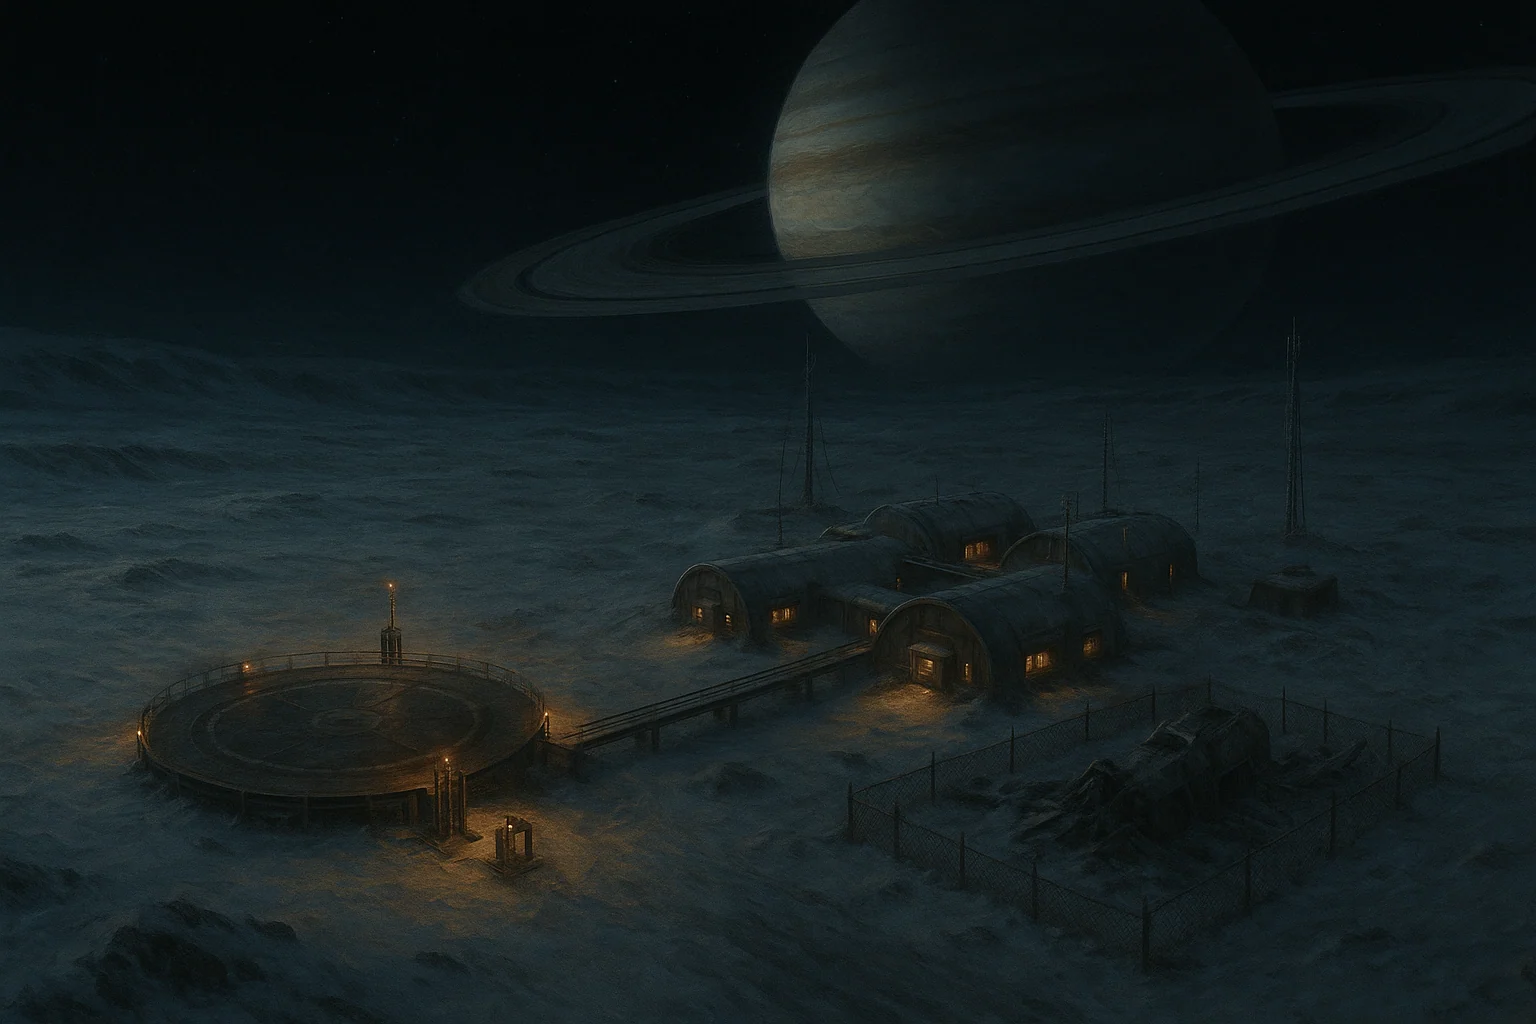
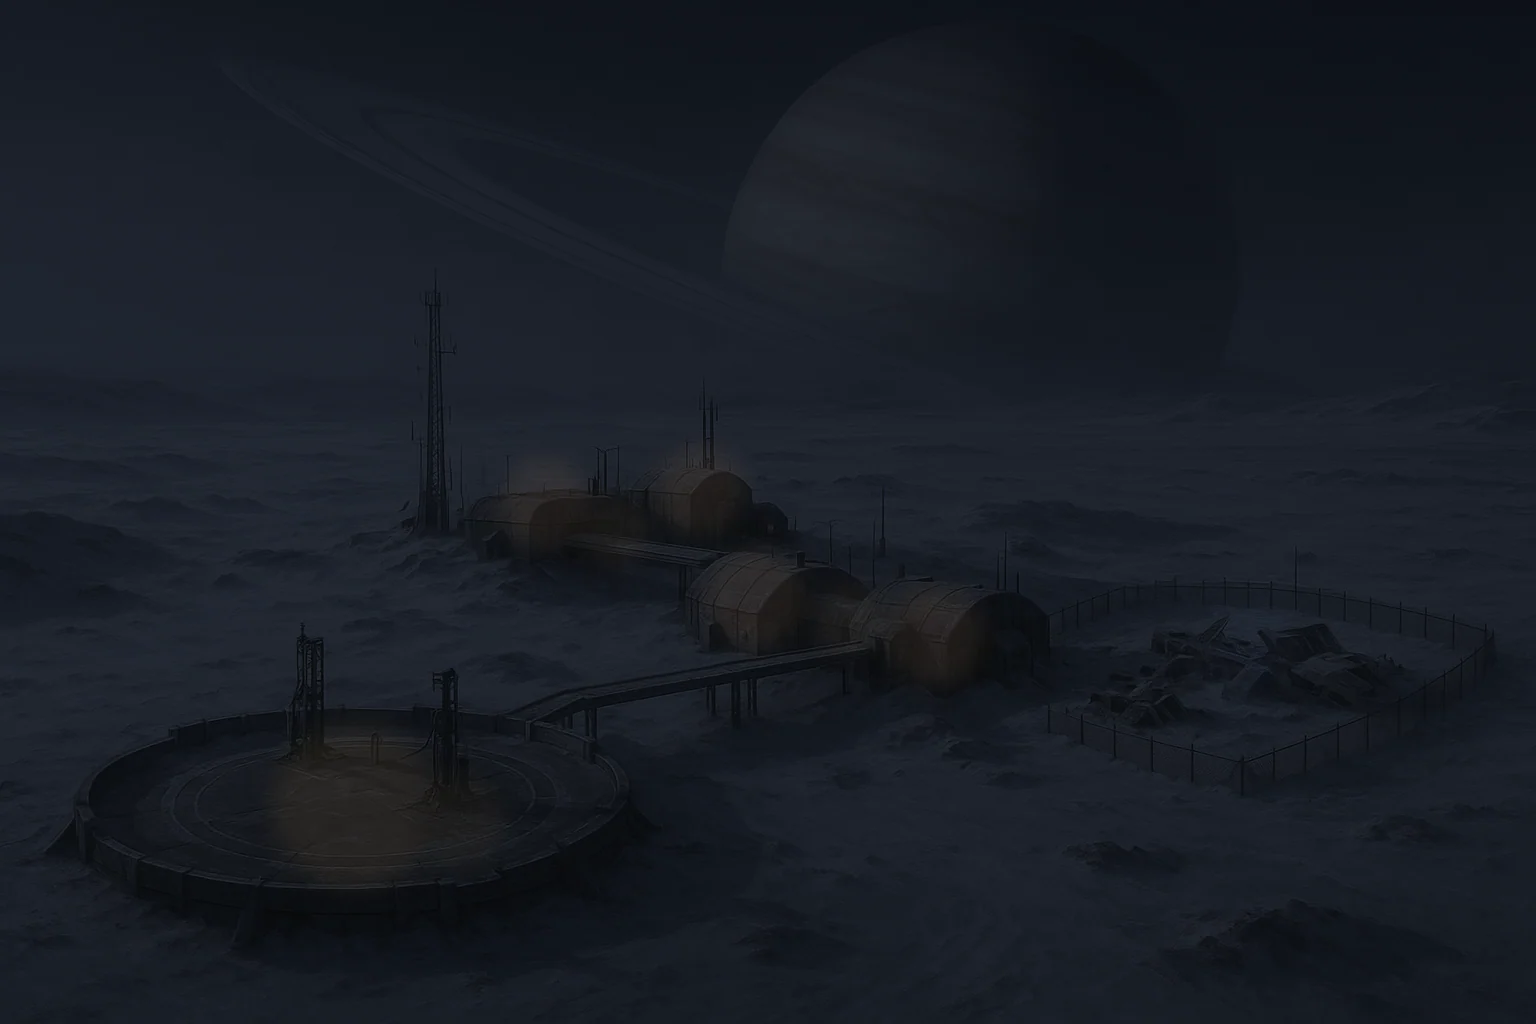
v0.1.2 — day/night graded from one image, side-panel layout fixed for good
- Dawn, dusk and night are now graded from the single daylight vista by
  tools/relight.py, with authored lamp points painted back in. Generating night
  separately gave a different building layout, so hotspots drifted after dark.
- Location rows are div role=button and restate their own box, so Foundry global
  button rules can no longer push tag chips onto the card above.

diff --git a/scripts/settle-render.js b/scripts/settle-render.js
@@ -501,13 +501,15 @@
 .sgset *{box-sizing:border-box;}
 /* Foundry's own button and typography rules leak in, and inline spans inside a flex button
    collapse on top of one another. Everything below is a defence against that. */
-.sgset button{font-family:inherit;color:inherit;cursor:pointer;background:none;border:none;
-  margin:0;line-height:1.35;text-align:left;white-space:normal;text-shadow:none;
-  box-shadow:none;border-radius:0;height:auto;min-height:0;width:auto;}
+.sgset button,.sgset [role="button"]{font-family:inherit;color:inherit;cursor:pointer;
+  background:none;border:none;margin:0;line-height:1.35;text-align:left;white-space:normal;
+  text-shadow:none;box-shadow:none;border-radius:0;
+  height:auto;min-height:0;max-height:none;width:auto;}
 .sgset button:hover,.sgset button:focus{box-shadow:none;outline:none;}
-.sgset .sgset-loc .body,.sgset .sgset-loc .blurb,
-.sgset .sgset-loc .sgset-tags,.sgset .sgset-loc .sgset-who{display:block;}
-.sgset .sgset-loc .glyph{display:flex;}
+.sgset .sgset-loc .body{display:block;flex:1 1 auto;min-width:0;}
+.sgset .sgset-loc .blurb{display:block;}
+.sgset .sgset-loc .sgset-tags,.sgset .sgset-loc .sgset-who{display:flex;flex-wrap:wrap;}
+.sgset .sgset-loc .glyph{display:flex;flex:0 0 30px;}
 
 /* ---- stage (the settlement artwork) ---- */
 .sgset-stage{position:relative;flex:1 1 auto;overflow:hidden;display:flex;
@@ -586,7 +588,11 @@
 .sgset-list{flex:1 1 auto;overflow-y:auto;padding:8px;display:flex;flex-direction:column;gap:7px;}
 .sgset-loc{border:1px solid var(--edge);border-radius:10px;background:rgba(9,24,36,.72);
   padding:10px 11px;display:flex;gap:11px;align-items:flex-start;text-align:left;width:100%;
+  cursor:pointer;overflow:hidden;font:inherit;color:inherit;
+  height:auto;min-height:0;max-height:none;line-height:1.4;white-space:normal;
   transition:border-color .15s,background .15s,transform .12s;}
+.sgset .sgset-loc>*{white-space:normal;}
+.sgset-loc:focus-visible{outline:1px solid var(--teal);outline-offset:2px;}
 .sgset-loc:hover{border-color:var(--edge2);background:rgba(14,38,54,.82);transform:translateX(-2px);}
 .sgset-loc.is-blocked{cursor:default;opacity:.62;}
 .sgset-loc.is-blocked:hover{border-color:var(--edge);background:rgba(9,24,36,.72);transform:none;}
@@ -865,15 +871,16 @@
     if (l.locked) tags.push(`<span class="sgset-tag locked">${esc(reason)}</span>`);
     if (l.gmOnly) tags.push(`<span class="sgset-tag gm">Hidden from players</span>`);
     return `
-<button class="sgset-loc ${l.enterable ? "" : "is-blocked"}" data-act="enter" data-loc="${esc(l.id)}">
-  <span class="glyph">${k.glyph}</span>
-  <span class="body">
-    <span class="name">${esc(l.name)}</span>
-    ${l.blurb ? `<span class="blurb">${esc(l.blurb)}</span>` : ""}
-    ${tags.length ? `<span class="sgset-tags">${tags.join("")}</span>` : ""}
-    ${l.here.length ? `<span class="sgset-who">${l.here.map((u) => `<span class="sgset-pip">${esc(userLabel(ctx, u))}</span>`).join("")}</span>` : ""}
-  </span>
-</button>`;
+<div class="sgset-loc ${l.enterable ? "" : "is-blocked"}" role="button" tabindex="0"
+     data-act="enter" data-loc="${esc(l.id)}">
+  <div class="glyph">${k.glyph}</div>
+  <div class="body">
+    <div class="name">${esc(l.name)}</div>
+    ${l.blurb ? `<div class="blurb">${esc(l.blurb)}</div>` : ""}
+    ${tags.length ? `<div class="sgset-tags">${tags.join("")}</div>` : ""}
+    ${l.here.length ? `<div class="sgset-who">${l.here.map((u) => `<span class="sgset-pip">${esc(userLabel(ctx, u))}</span>`).join("")}</div>` : ""}
+  </div>
+</div>`;
   }
 
   function partyFootHtml(locs, ctx) {
@@ -970,6 +977,9 @@
       ctx.enter(l.id);
     };
     on('[data-act="enter"]', "click", (e) => tryEnter(e.currentTarget));
+    on('[data-act="enter"]', "keydown", (e) => {
+      if (e.key === "Enter" || e.key === " ") { e.preventDefault(); tryEnter(e.currentTarget); }
+    });
     on('[data-act="hot"]', "click", (e) => tryEnter(e.currentTarget));
     on('[data-act="hot"]', "mouseenter", (e) => { uiState.activeLoc = e.currentTarget.dataset.loc; });
 

diff --git a/MAINTAINING.md b/MAINTAINING.md
@@ -136,9 +136,29 @@ never asked to match anything.
 
 ## 4. Other artwork
 
+### One image per settlement — do not generate a second one for night
+
+There is exactly **one** generated vista per settlement, the daylight one. Dawn, dusk and
+night are graded from it by `tools/relight.py`.
+
+This is not a shortcut. Generating night separately produced a *different building layout* —
+the model does not reproduce a scene — so hotspots authored against the day image landed on
+empty snow after dark. Grading the same picture cannot drift, because it is the same picture.
+
+A flat darken reads as dimmed daylight rather than night, so each settlement carries a short
+`lamps` list: normalised points marked by eye on the day image (windows, pad floodlights),
+each with a radius, power and colour. `relight.py` paints those back in as warm pools with a
+bloom. Tune the numbers there — they are content, not code.
+
+```bash
+python3 tools/gen_art.py cities      # the daylight image only
+python3 tools/relight.py force       # dawn / dusk / night from it
+```
+
 | what | where | generated by |
 |---|---|---|
-| Settlement vistas (day + night) | `assets/cities/` | `tools/gen_art.py cities` |
+| Settlement vista (daylight only) | `assets/cities/` | `tools/gen_art.py cities` |
+| Dawn / dusk / night variants | `assets/cities/` | `tools/relight.py` |
 | NPC portraits | `assets/portraits/` | `tools/gen_art.py portraits` |
 | Interior battlemaps | `assets/interiors/` | `tools/gen_freeform_maps.py` |
 | Placeholder battlemaps | `assets/interiors/` | `tools/gen_maps.py` |
@@ -216,6 +236,11 @@ only be opened by clicking its shopkeeper. The GM is never gated.
 - **Token clicks** are intercepted by monkey-patching `CONFIG.Token.objectClass.prototype._onClickLeft`
   once, in `ready`. A GM holding **Alt** gets the normal select behaviour so tokens stay
   editable. No libWrapper dependency, matching the rest of the repo.
+- **The side-panel rows are `div role=button`, not `<button>`.** Foundry's global button
+  rules (a fixed `height`, `line-height: 1`, `white-space: nowrap`) repeatedly broke the row
+  layout and pushed the tag chips out onto the card above. The row restates its own box —
+  `height:auto; min-height:0; line-height; white-space` — so a host rule cannot win. If you
+  add a new composite control, do the same, and test it with those rules injected.
 - **Scenes are gridless by default** (`interior.gridless: false` opts back into a square
   grid). The maps are illustrated art whose architecture never lines up with a square grid,
   so drawing one over the top just fights the picture.
